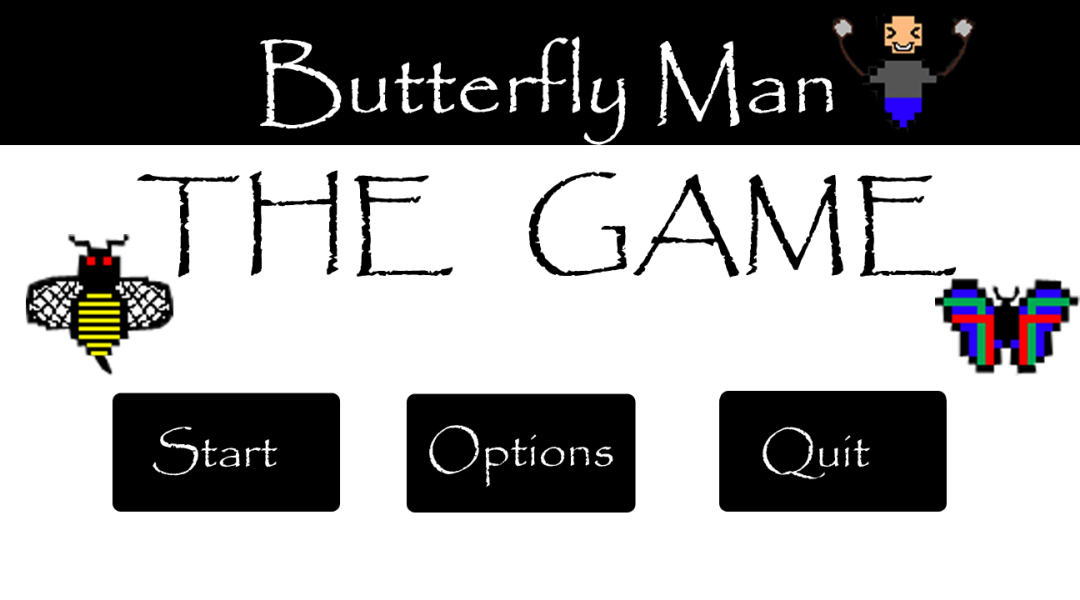
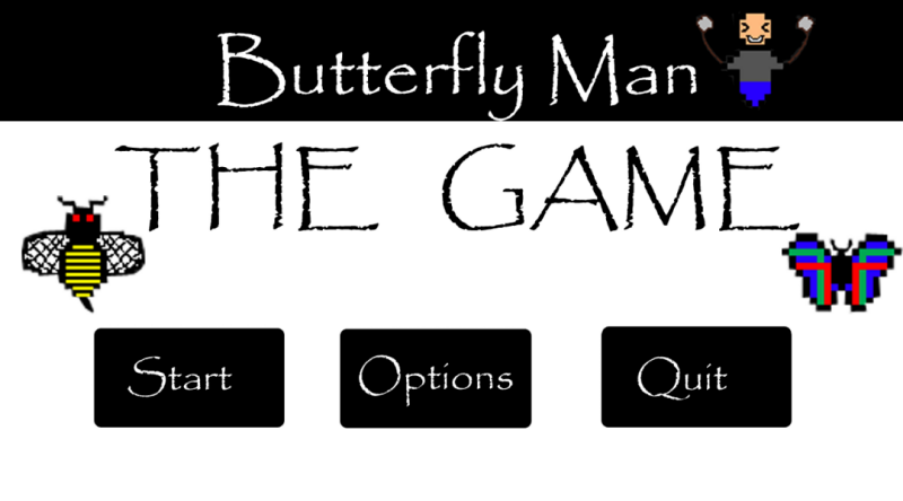
size and deleting white space

diff --git a/Game.py b/Game.py
@@ -12,8 +12,8 @@ pygame.init()
 
 clock = pygame.time.Clock()
 
-width = 800
-height = 600
+width = 903
+height = 501
 fullscreen = 0
 altFlag = False
 size = width, height
@@ -25,7 +25,7 @@ bgRect = bg.get_rect()
 bgImage = pygame.image.load("rsc/Startscreen/startscreen.png")
 bgRect = bgImage.get_rect()
 
-startButton = Button([width/4, height-300], 
+startButton = Button([width/4, height-100], 
                     "rsc/Startscreen/start.png",
                     "rsc/Startscreen/starthighlighted.png")
                                      
